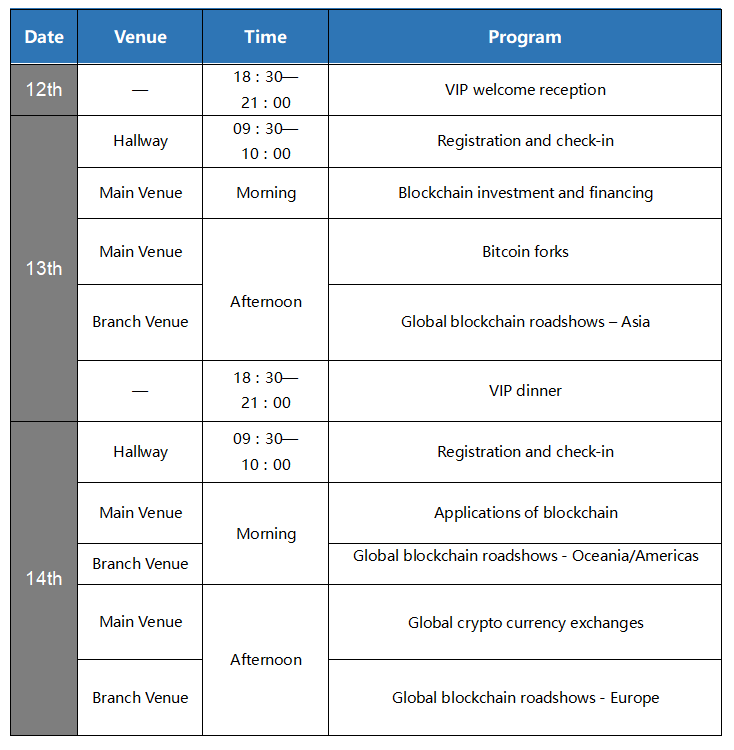
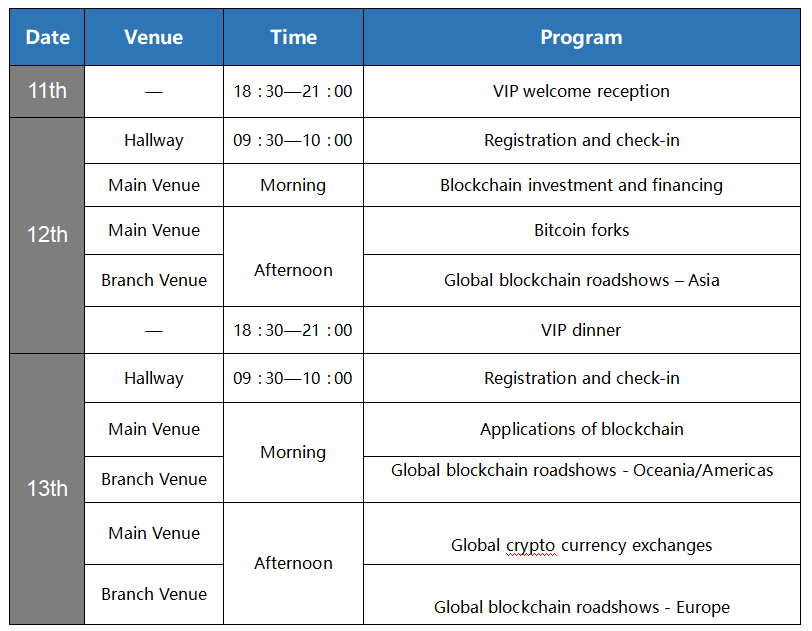
add

Changed region(s): [[0.0, 0.0, 0.9891, 0.9937], [0.2997, 0.6926, 0.4196, 0.7227]]

diff --git a/conference/index.html b/conference/index.html
@@ -140,16 +140,16 @@
         <span class="h6-title">地址</span>
         <p class="cm-ct">中国澳门 路氹 路氹连贯公路 喜来登金沙城中心大酒店</p>
         <span class="h6-title">时间</span>
-        <p class="cm-ct">2018年1月</p>
+        <p class="cm-ct">2018年1月12日-13日</p>
 
         <div class="cm-ct">
-            <p class="fh-intro fh-top">2018年1月，Finwise Summit 纷智区块链峰会将在中国·澳门举办。此次峰会旨在加强全球金融行业从业者们的交流，推动全球金融科技的发展。峰会还将以目前金融科技领域最前沿的区块链技术为主导，集合全球优秀金融科技及区块链企业，对未来科技金融及区块链技术应用发展，进行展望和推进。</p>
+            <p class="fh-intro fh-top">2018年1月12日，Finwise Summit 纷智区块链峰会将在中国·澳门举办。此次峰会旨在加强全球金融行业从业者们的交流，推动全球金融科技的发展。峰会还将以目前金融科技领域最前沿的区块链技术为主导，集合全球优秀金融科技及区块链企业，对未来科技金融及区块链技术应用发展，进行展望和推进。</p>
         </div>
 
     </div>
 
 </section>
-<!-- <section class="A-wrap container">
+<section class="A-wrap container">
 
     <h2 class="h2-title text-center">会议议程</h2>
     <div class="row">
@@ -157,7 +157,7 @@
             <img src="images/finwise/confer-table.jpg">
         </div>
     </div>
-</section> -->
+</section>
 <section class="A-wrap container">
 
     <h2 class="h2-title text-center">参与合作</h2>

diff --git a/conference/index-en.html b/conference/index-en.html
@@ -140,7 +140,7 @@
         <span class="h6-title">Address</span>
         <p class="cm-ct">Sheraton Grand Macao Hotel, Estrada do Istmo. s/n Cotai, Macau</p>
         <span class="h6-title">Data</span>
-        <p class="cm-ct">2018/01</p>
+        <p class="cm-ct">2018/01/12-13</p>
 
         <div class="cm-ct">
             <p class="fh-intro fh-top">The Finwise Summit will be held in Macau, China in January 2018. The summit aims to encourage interaction among global fintech industry participants and to advocate global fintech developments. The event will feature the latest blockchain technologies, the best fintech enterprises, future financial blockchain applications, trends and progresses.</p>
@@ -149,7 +149,7 @@
     </div>
 
 </section>
-<!-- <section class="A-wrap container">
+<section class="A-wrap container">
 
     <h2 class="h2-title text-center">Agenda</h2>
     <div class="row">
@@ -157,7 +157,7 @@
             <img src="images/finwise/confer-table-en.jpg">
         </div>
     </div>
-</section> -->
+</section>
 <section class="A-wrap container">
 
     <h2 class="h2-title text-center">Become a sponsor</h2>
